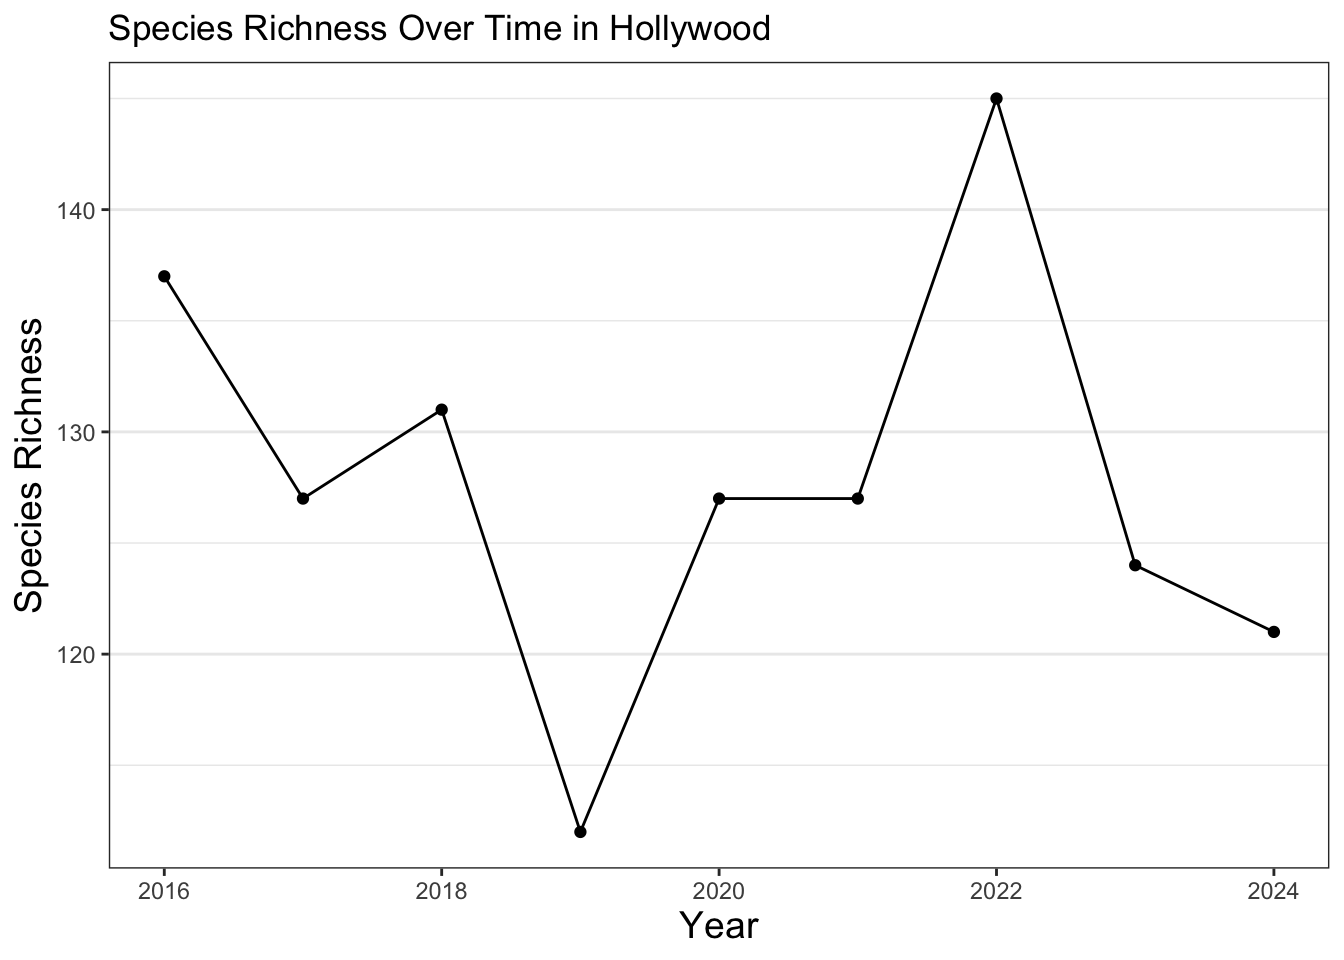
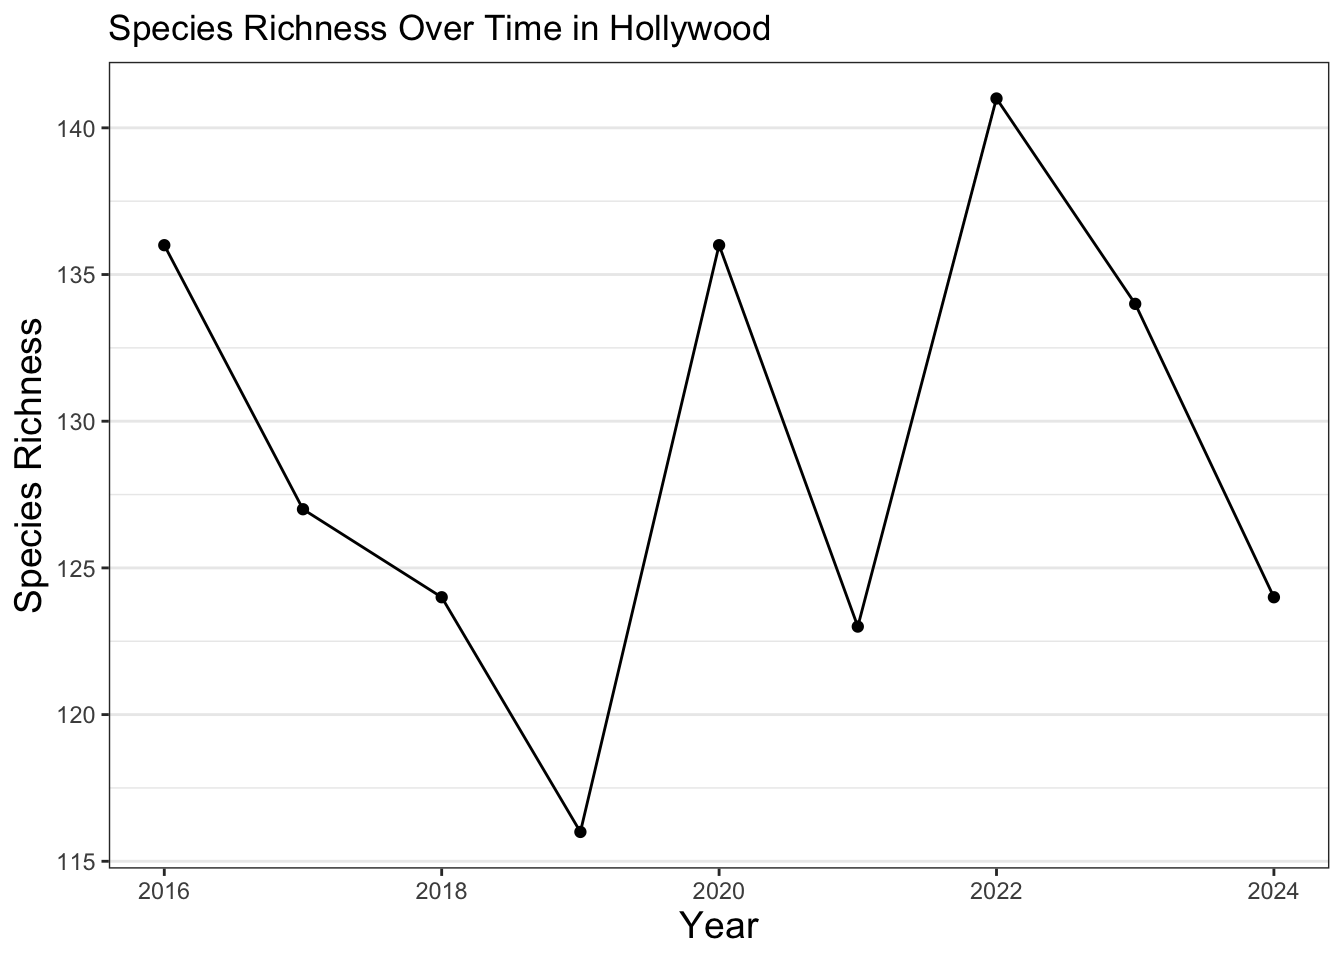
update docs

diff --git a/docs/lessons/next-steps.html b/docs/lessons/next-steps.html
@@ -309,7 +309,7 @@ pre > code.sourceCode > span > a:first-child::before { text-decoration: underlin
 <li><p>Review the online lessons and use Codespace to run the examples in ‘scripts/lesson-scripts’.</p></li>
 <li><p>We did one exercise in class. Optionally, do the rest of the exercises in the <a href="../lessons/working-with-data.html">“Working with data”</a>, <a href="../lessons/creating-maps.html">“Creating maps”</a>, and <a href="../lessons/creating-charts.html">“Creating charts”</a> sections to get more practice with coding. Click the “Show solution” button on the online lesson to see the solution.</p></li>
 <li><p>Once you formed some questions, figure out how to go from 191K City Nature Challenge observations to the observation you want. I provided a lot of coding examples, but I don’t expect anyone to use all the examples for their analysis. Think of each code example as one building block. It’s up to you to pick the blocks you need to build your analysis.</p>
-<p>If you want to study one or more species, review the examples that filter by species by <a href="../lessons/working-with-data.html#select-observations-by-common_name">common_name</a> and <a href="../lessons/working-with-data.html#select-observations-by-working-with-data.qmd#select-observations-by-scientific_name">scientific_name</a>. If you want to study a group of species, review the <a href="../lessons/higher-taxa.html">higher taxa</a> examples. If you want to limit the observations to a particular location, review the examples that show filtering observations using <a href="../lessons/creating-maps.html#observations-in-a-specific-region">geographic boundaries</a> and <a href="../lessons/creating-maps.html#observations-in-a-specific-region">buffer</a>. If you want to compare observations in different areas, review the examples about <a href="../lessons/creating-maps.html#compare-observations-by-regions">counting the number of observations per neighborhood</a>. If you want to study your own observations, review the examples about filtering by <a href="../lessons/working-with-data.html#select-observations-by-user_login">iNaturalist user_login</a>. If you want to mimic the data standards used by scientists, review the examples about filter by <a href="../lessons/working-with-data.html#select-observations-by-quality_grade">research grade</a> and <a href="../lessons/working-with-data.html#select-observations-by-multiple-license">licenses</a>. If you want to limit the observations by year, review the examples about <a href="../lessons/working-with-data.html#select-observations-by-year">filtering by years</a>. If you want to remove some of the biases in community science data, review <a href="../lessons/normalizing-inat.html">normalizing iNaturalist data</a> examples. Review the datasets listed on the <a href="../lessons/other-datasets.html">“Using to other datasets”</a> page to see if any of the datasets are useful for you.</p></li>
+<p>If you want to study one or more species, review the examples that filter by species by <a href="../lessons/working-with-data.html#select-observations-by-common_name">common_name</a> and <a href="../lessons/working-with-data.html#select-observations-by-scientific_name">scientific_name</a>. If you want to study a group of species, review the <a href="../lessons/higher-taxa.html">higher taxa</a> examples. If you want to limit the observations to a particular location, review the examples that show filtering observations using <a href="../lessons/creating-maps.html#observations-in-a-specific-region">geographic boundaries</a> and <a href="../lessons/creating-maps.html#observations-near-a-specific-region">buffer</a>. If you want to compare observations in different areas, review the examples about <a href="../lessons/creating-maps.html#compare-observations-by-regions">counting the number of observations per neighborhood</a>. If you want to study your own observations, review the examples about filtering by <a href="../lessons/working-with-data.html#select-observations-by-user_login">iNaturalist user_login</a>. If you want to mimic the data standards used by scientists, review the examples about filter by <a href="../lessons/working-with-data.html#select-observations-by-quality_grade">research grade</a> and <a href="../lessons/working-with-data.html#select-observations-by-multiple-license">licenses</a>. If you want to limit the observations by year, review the examples about <a href="../lessons/working-with-data.html#select-observations-by-year">filtering by years</a>. If you want to remove some of the biases in community science data, review <a href="../lessons/normalizing-inat.html">normalizing iNaturalist data</a> examples. Review the datasets listed on the <a href="../lessons/other-datasets.html">“Using to other datasets”</a> page to see if any of the datasets are useful for you.</p></li>
 </ol>
 </section>
 <section id="writing-your-own-code" class="level3">

diff --git a/docs/lessons/working-with-data.html b/docs/lessons/working-with-data.html
@@ -764,7 +764,8 @@ Tip
 <section id="select-observations-by-user_login" class="level4">
 <h4 class="anchored" data-anchor-id="select-observations-by-user_login">select observations by user_login</h4>
 <p>iNaturalist has two fields for the user name: <code>user_login</code> and <code>user_name</code>. iNaturalist displays the <code>user_login</code> for each observation, and displays <code>user_name</code> on the user’s profile page.</p>
-<p>Let’s get all observations for iNaturalist user ‘natureinla’, and we only want columns <code>user_login</code>, <code>common_name</code>, <code>scientific_name</code>, <code>observed_on</code>.</p>
+<p>Let’s get all observations for iNaturalist user ‘natureinla’, and we only want columns <code>user_login</code>, <code>common_name</code>, <code>scientific_name</code>, <code>observed_on</code>. Since we need both <code>filter()</code> and <code>select()</code>, we use pipe operator <code>%&gt;%</code>.</p>
+<p>Pipe operator take the thing on the left hand side and insert it as the first argument of the function on the right hand side.</p>
 <div class="cell">
 <div class="sourceCode cell-code" id="cb29"><pre class="sourceCode r code-with-copy"><code class="sourceCode r"><span id="cb29-1"><a href="#cb29-1" aria-hidden="true" tabindex="-1"></a>inat_data <span class="sc">%&gt;%</span></span>
 <span id="cb29-2"><a href="#cb29-2" aria-hidden="true" tabindex="-1"></a>  <span class="fu">filter</span>(user_login <span class="sc">==</span> <span class="st">'natureinla'</span>) <span class="sc">%&gt;%</span></span>
@@ -786,7 +787,7 @@ Tip
 # ℹ 2,946 more rows</code></pre>
 </div>
 </div>
-<p>Pipe operator take the thing on the left hand side and insert it as the first argument of the function on the right hand side. It can be helpful to think of <code>%&gt;%</code> as meaning “and then”. <code>inat_data</code> is sent to <code>filter()</code> function. <code>filter()</code> selects rows with ‘natureinla’. Then output from <code>filter()</code> is sent into the <code>select()</code> function. <code>select()</code> selects 4 columns.</p>
+<p>It can be helpful to think of <code>%&gt;%</code> as meaning “and then”. <code>inat_data</code> is sent to <code>filter()</code> function. <code>filter()</code> selects rows with ‘natureinla’. And then the output from <code>filter()</code> is sent into the <code>select()</code> function. <code>select()</code> selects 4 columns.</p>
 </section>
 <section id="select-observations-by-coordinates_obscured" class="level4">
 <h4 class="anchored" data-anchor-id="select-observations-by-coordinates_obscured">select observations by coordinates_obscured</h4>

diff --git a/docs/lessons/cleaning-data.html b/docs/lessons/cleaning-data.html
@@ -335,7 +335,7 @@ extracting from zip file</code></pre>
 <li>information about observations with threatened, native, and introduced species had to be downloaded separately</li>
 </ul>
 <p>In order to simplify things for the workshop attendees, we fixed the various issues and created a cleaned up CSV.</p>
-<p>These are the steps we took to produced the cleaned up file. The raw file is at ‘/var/folders/zw/0kb57jnn5nv9k3pgxsz86n7h0000gq/T//RtmphEJj8s/filebabc518948fb’, the cleaned file is at ‘/Users/wyk/Development/science/city_nature_challenge/NHMLA_workshop/after_inaturalist_lesson/data/cleaned/cnc-los-angeles-observations.csv’</p>
+<p>These are the steps we took to produced the cleaned up file. The raw file is at ‘/var/folders/zw/0kb57jnn5nv9k3pgxsz86n7h0000gq/T//RtmpPaSHvP/file14d23525b4e5f’, the cleaned file is at ‘/Users/wyk/Development/science/city_nature_challenge/NHMLA_workshop/after_inaturalist_lesson/data/cleaned/cnc-los-angeles-observations.csv’</p>
 <div class="cell">
 <div class="sourceCode cell-code" id="cb5"><pre class="sourceCode r code-with-copy"><code class="sourceCode r"><span id="cb5-1"><a href="#cb5-1" aria-hidden="true" tabindex="-1"></a>tmp <span class="ot">&lt;-</span> <span class="fu">tempfile</span>()</span>
 <span id="cb5-2"><a href="#cb5-2" aria-hidden="true" tabindex="-1"></a>zip_path <span class="ot">&lt;-</span> <span class="fu">here</span>(<span class="st">'data/raw/observations-513664.zip'</span>)</span>

diff --git a/docs/lessons/normalizing-inat.html b/docs/lessons/normalizing-inat.html
@@ -425,14 +425,14 @@ are planar</code></pre>
 <div class="cell-output cell-output-stdout">
 <pre><code># A tibble: 6 × 2
 # Groups:   year [1]
-   year scientific_name      
-  &lt;dbl&gt; &lt;chr&gt;                
-1  2016 Pieris rapae         
-2  2016 Eleodes osculans     
-3  2016 Erigeron sumatrensis 
-4  2016 Lonicera subspicata  
-5  2016 Linepithema humile   
-6  2016 Hippodamia convergens</code></pre>
+   year scientific_name    
+  &lt;dbl&gt; &lt;chr&gt;              
+1  2016 Centranthus ruber  
+2  2016 Cornu aspersum     
+3  2016 Lonicera subspicata
+4  2016 Corvus corax       
+5  2016 Lonicera subspicata
+6  2016 Sciurus niger      </code></pre>
 </div>
 </div>
 <p>We can use table to confirm we get <code>lowest_year</code> number of observations per year.</p>
@@ -459,15 +459,15 @@ are planar</code></pre>
 # Groups:   year [9]
    year richness
   &lt;dbl&gt;    &lt;int&gt;
-1  2016      137
+1  2016      136
 2  2017      127
-3  2018      131
-4  2019      112
-5  2020      127
-6  2021      127
-7  2022      145
-8  2023      124
-9  2024      121</code></pre>
+3  2018      124
+4  2019      116
+5  2020      136
+6  2021      123
+7  2022      141
+8  2023      134
+9  2024      124</code></pre>
 </div>
 </div>
 <p>Next, we can create a chart and visualize the results. Here, we use commands for how the plot looks similar to other plots we’ve created previously.</p>

diff --git a/docs/lessons/additional-analysis.html b/docs/lessons/additional-analysis.html
@@ -748,8 +748,8 @@ $ geometry           &lt;POINT [°]&gt; POINT (-118.5365 34.38503), POINT (-118.
 <span id="cb55-6"><a href="#cb55-6" aria-hidden="true" tabindex="-1"></a><span class="fu">table</span>(my_inat<span class="sc">$</span>observed_on)</span></code><button title="Copy to Clipboard" class="code-copy-button"><i class="bi"></i></button></pre></div>
 <div class="cell-output cell-output-stdout">
 <pre><code>
-2016-04-15 2016-04-17 2017-04-18 2022-05-01 2023-04-29 
-         1          1          1          1          1 </code></pre>
+2021-04-30 2021-05-01 2022-05-01 2023-04-29 
+         1          1          2          1 </code></pre>
 </div>
 </div>
 <p>Once we have the observations we want, call custom function <code>download_inaturalist_images()</code> to download the images for the observations. The images are saved in the results directory. A new directory will be created for each <code>scientific_name</code>. The image name will contain the scientific name, observation id, username and license.</p>
